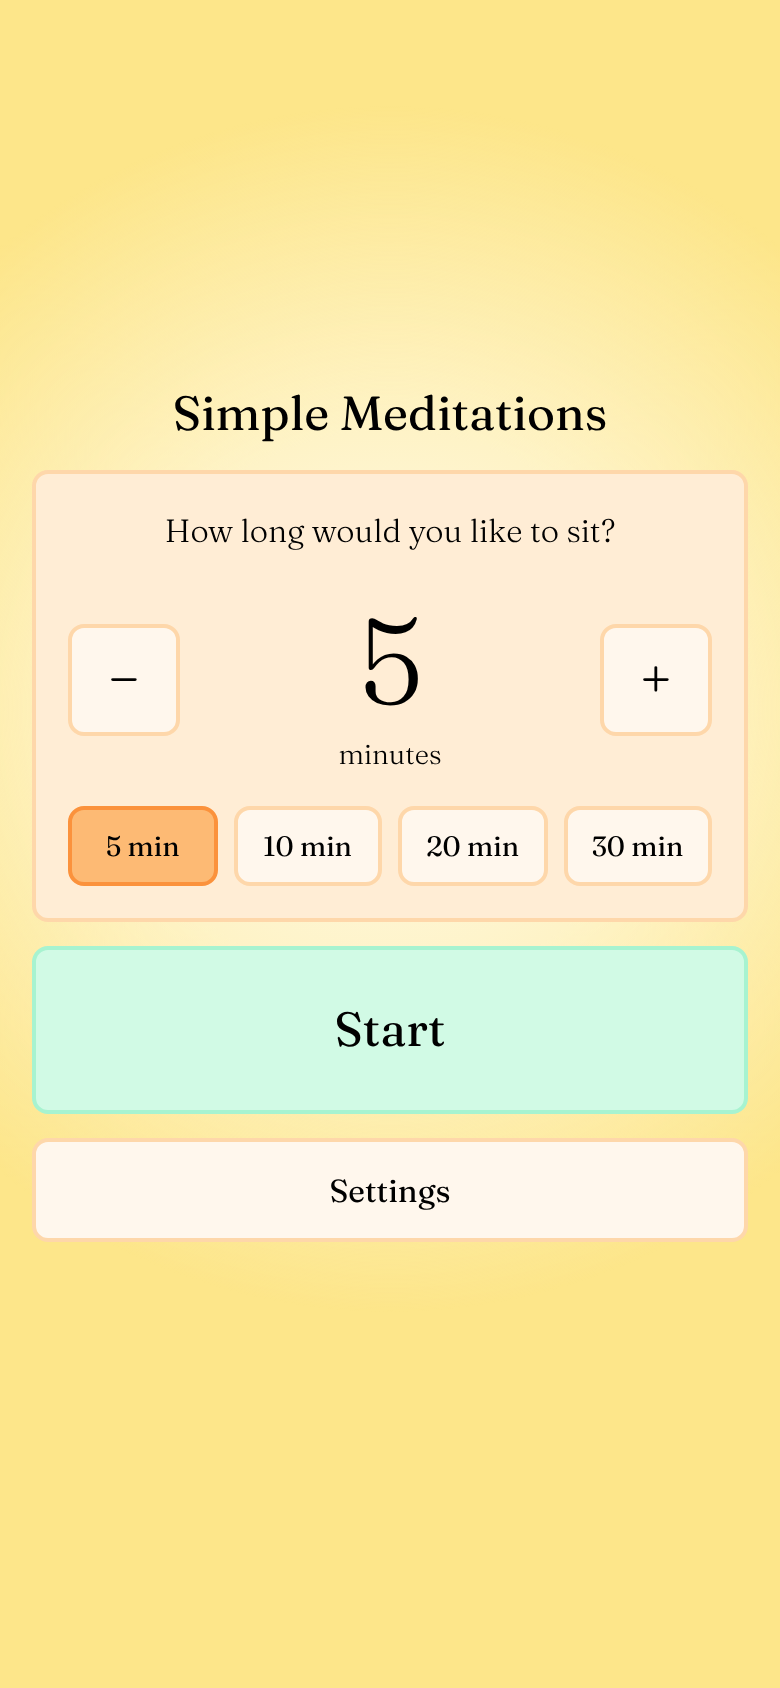
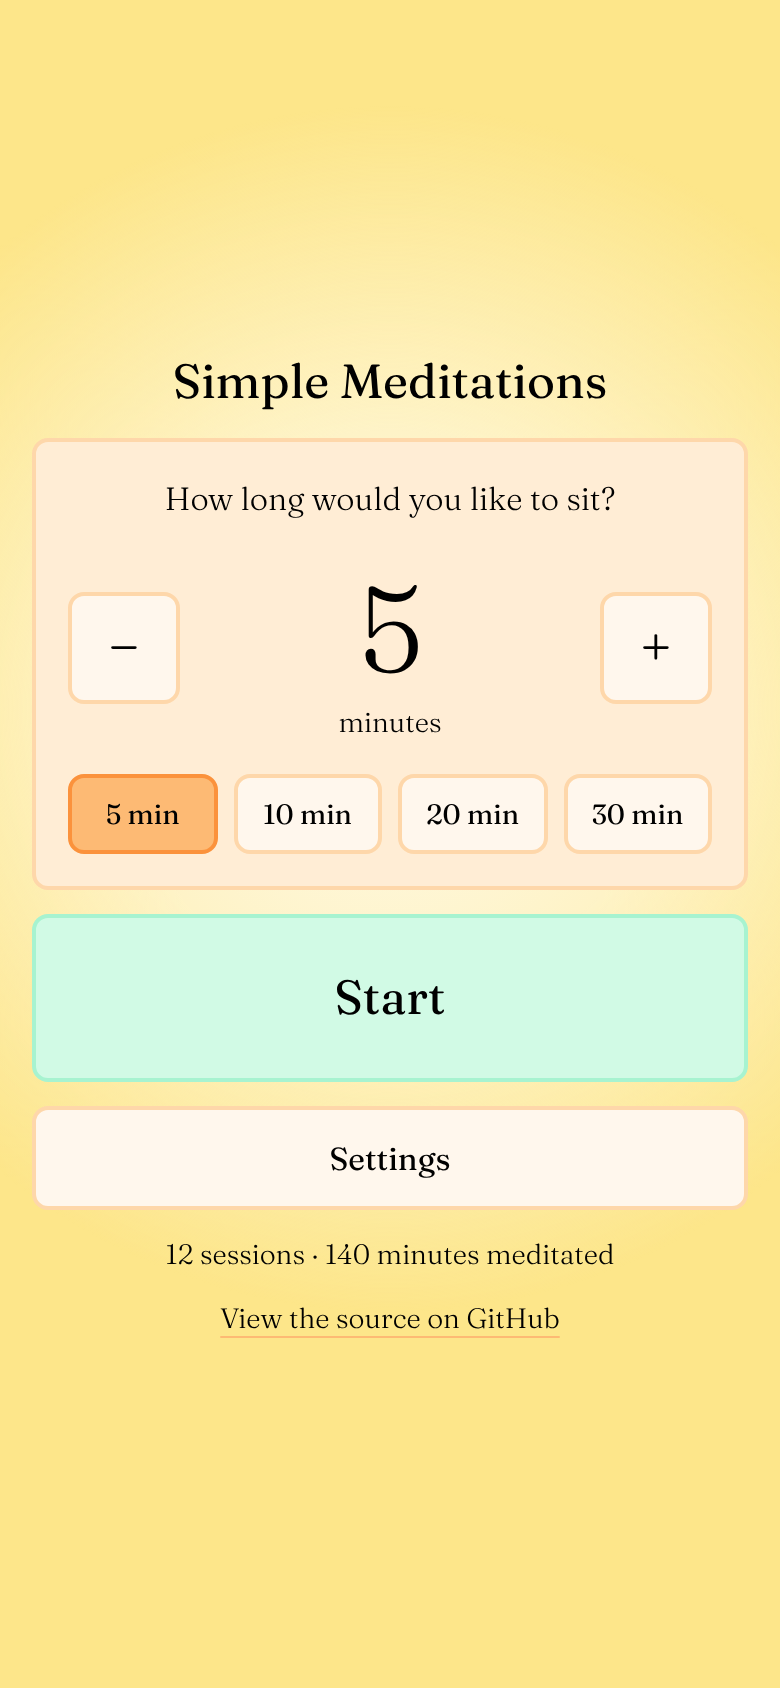
Link to the GitHub repository from the home screen
A quiet underlined text link under the session stats, opening in a new
tab. Updated the README home screenshot.

Claude-Session: https://claude.ai/code/session_01FyS6UfNmQEcDuBKgYkpFCh

diff --git a/app/ui/forms.tsx b/app/ui/forms.tsx
@@ -118,6 +118,14 @@ export function TimerForm({ toggleTimer }: TimerFormProps) {
           </>
         )}
       </p>
+
+      <a
+        href='https://github.com/ollycodes/meditations'
+        target='_blank'
+        rel='noopener noreferrer'
+        className='self-center text-sm font-light underline underline-offset-4
+          decoration-orange-300 hover:decoration-orange-500 transition-colors'
+      >View the source on GitHub</a>
     </div>
   )
 }
